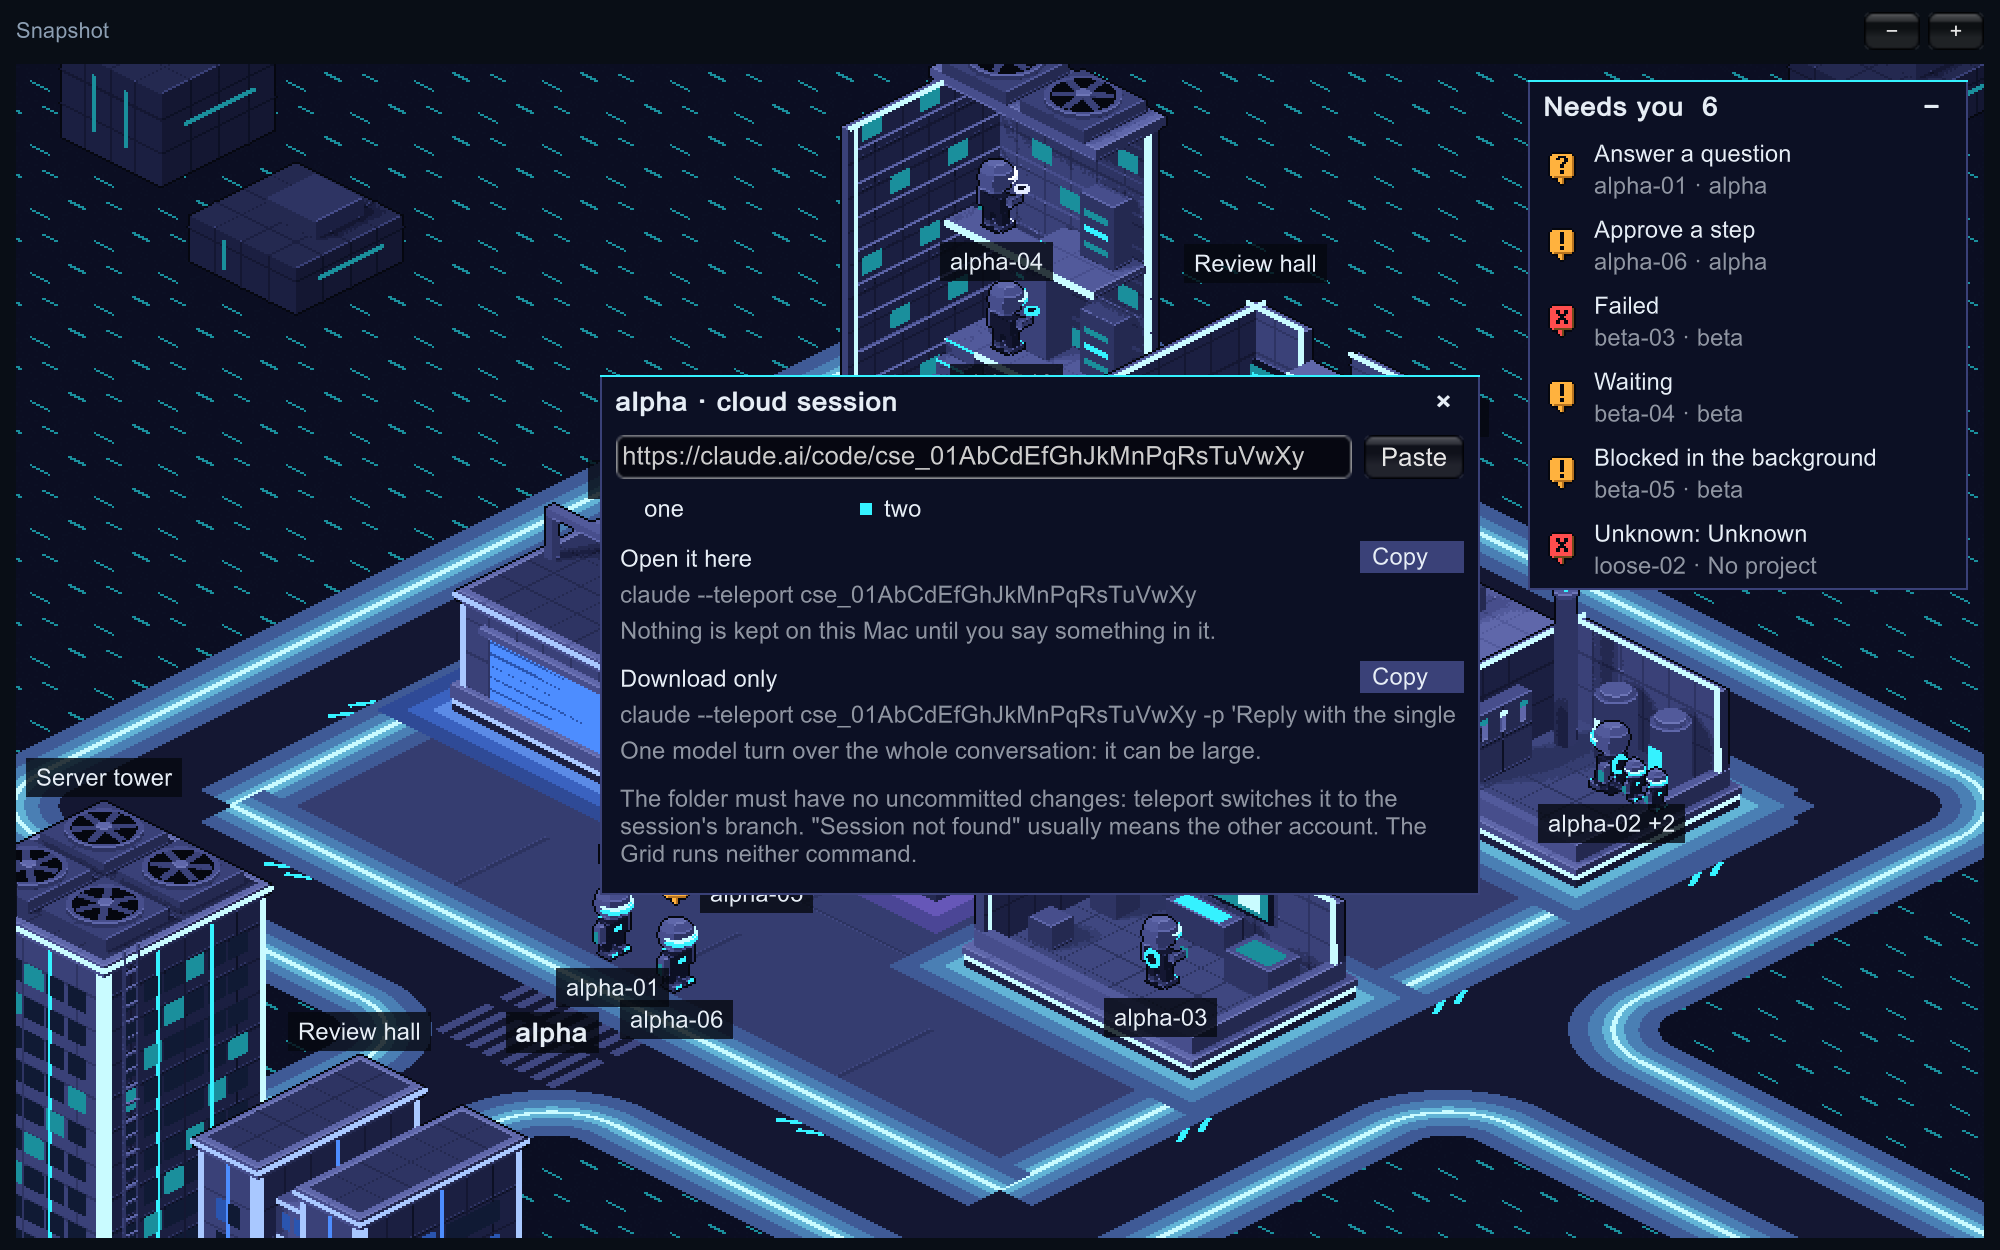
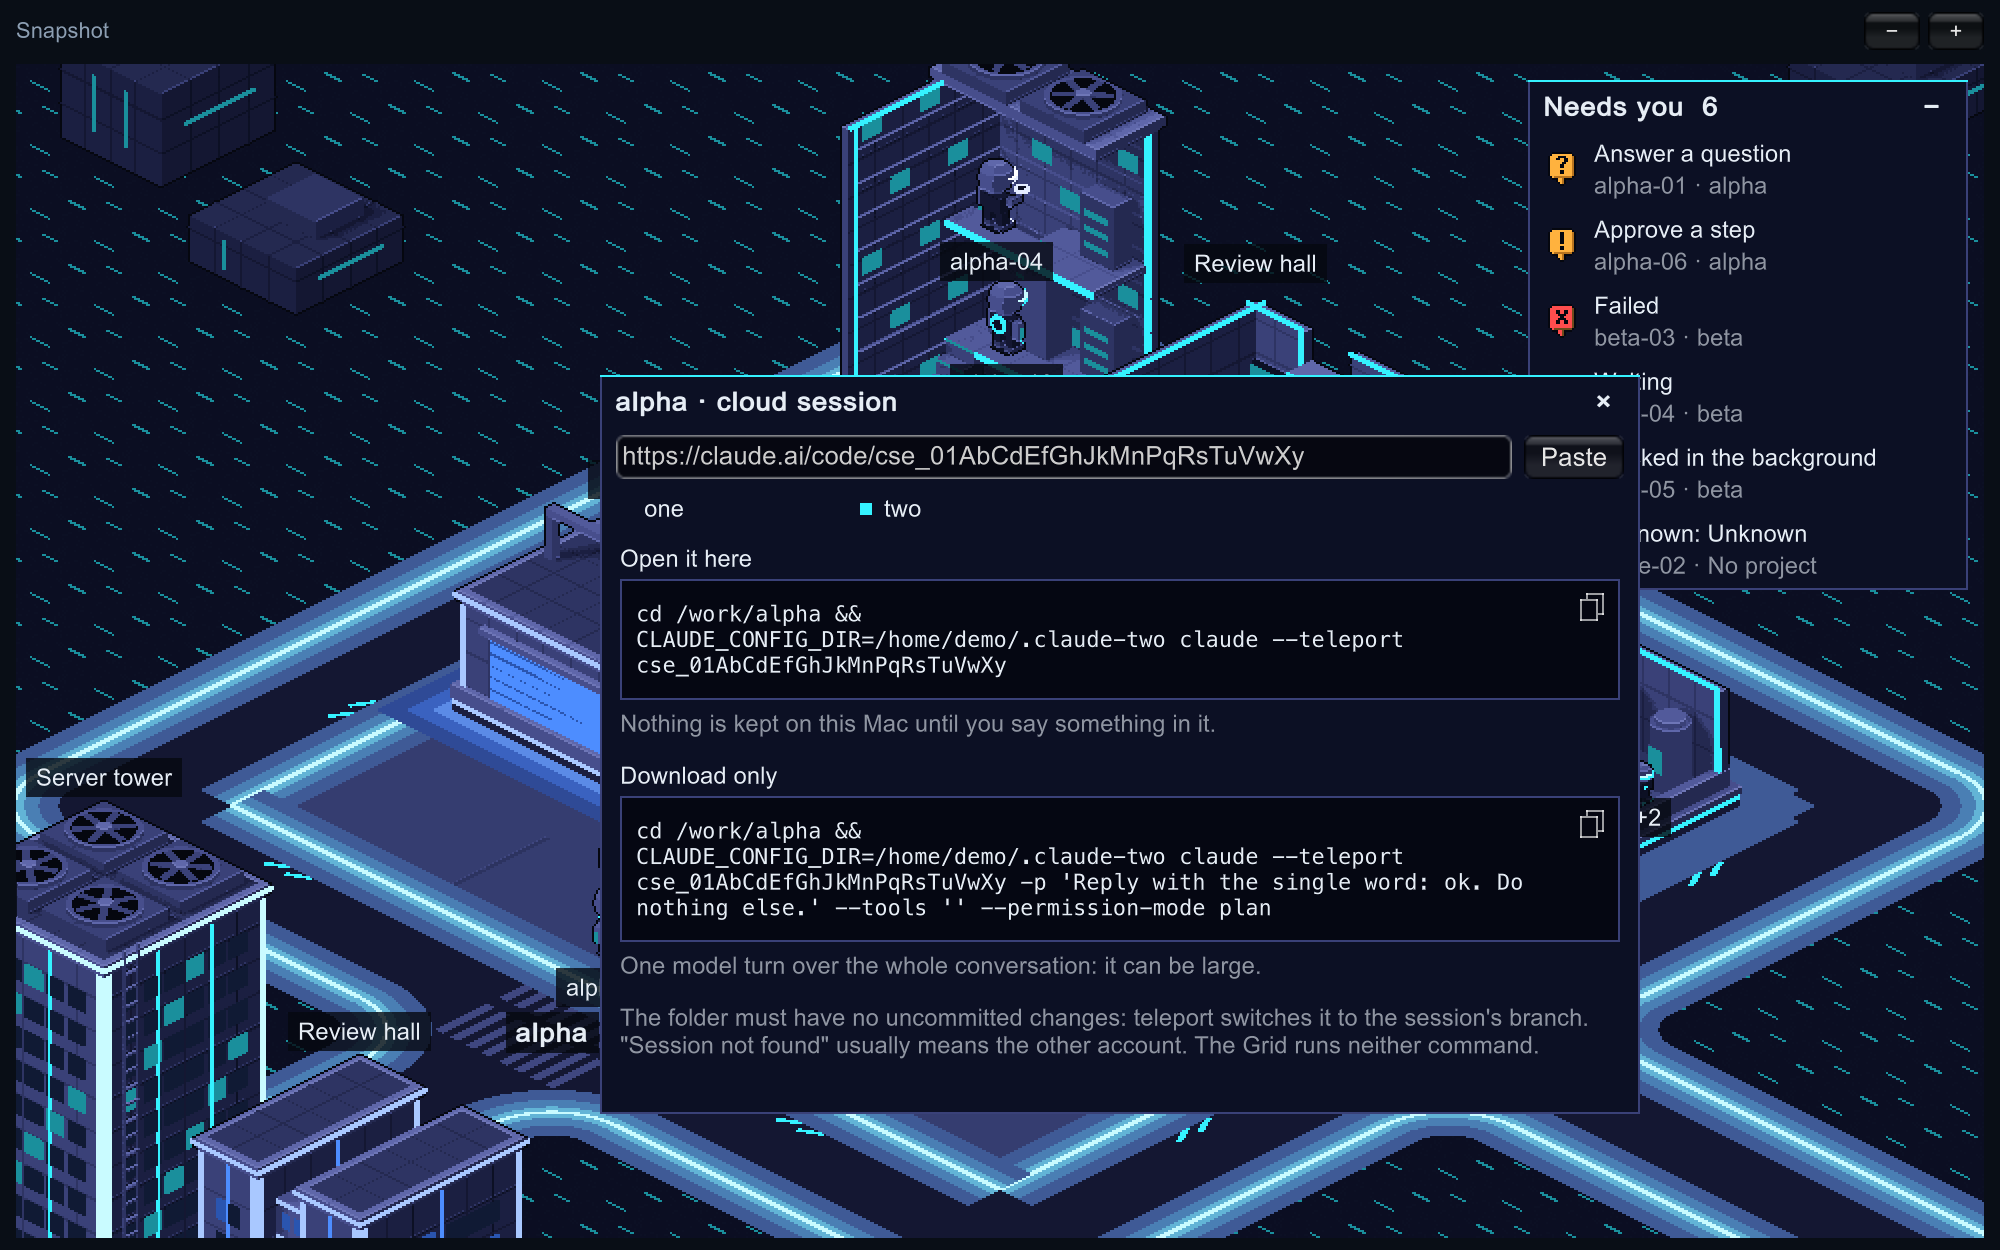
GRID-39: the cloud panel's commands are code blocks with a copy mark
Asked for by the owner on seeing the panel: the code to copy in a properly
formatted code block, with the copy control as an icon in the block's upper
right corner.

- Each command is drawn whole, in fixed-width letters on a darker plate,
  every step on a line of its own (RosterFormat.Shown), long lines wrapped.
- The copy control is a small mark of two sheets in the upper right corner;
  it is lit and says "Copied" for a moment after a click.
- No dependency: the letters are Menlo from the system, the block and the
  mark are a few filled rectangles.

diff --git a/Assets/TheGrid/WorldPanels.cs b/Assets/TheGrid/WorldPanels.cs
@@ -15,14 +15,14 @@ namespace TheGrid
         const int SubagentLines = 4, SubagentLinesWhenShort = 1;
         const int MostRows = 6, RowsWhenShort = 2, MostPulls = 5;
         static readonly Color Plate = new Color32(0x0c, 0x10, 0x24, 255), Edge = new Color32(0x3a, 0x41, 0x78, 255), Lit = new Color32(0x35, 0xf2, 0xff, 255);
-        static readonly Color Dim = new Color(1, 1, 1, .6f);
+        static readonly Color Dim = new Color(1, 1, 1, .6f), Well = new Color32(0x05, 0x07, 0x12, 255);   // Well: the ground of a code block
 
         readonly Texture2D[] badges = new Texture2D[5];   // in the order of Badge
         bool folded, foldChosen;
         Vector2 scroll;
         Rect needs, card, depot;   // where the panels are; zero when not drawn
         Vector2 depotScroll;
-        GUIStyle wrapped, oneLine;
+        GUIStyle wrapped, code;
         readonly Texture2D[] crates = new Texture2D[ArtNames.Crates.Length];   // in the order of PullState
         List<string> subagents = new List<string>();   // the card's lines about subagents, as many as this map has room for
 
@@ -294,7 +294,9 @@ namespace TheGrid
             if (wrapped == null) wrapped = new GUIStyle(text) { wordWrap = true, clipping = TextClipping.Clip };
             string id = RosterFormat.CloudId(pasted);
             bool wrong = id == "" && pasted.Trim() != "";
-            float high = TitleHigh + 30 + (wrong ? 36 : 0) + 26 + (id == "" ? 0 : 6 * LineHigh + 12) + 58;
+            string open = id == "" ? "" : command(id, cloudAccount, false), download = id == "" ? "" : command(id, cloudAccount, true);
+            float openHigh = CodeHigh(CloudWide - 20, open, text), downloadHigh = CodeHigh(CloudWide - 20, download, text);
+            float high = TitleHigh + 30 + (wrong ? 36 : 0) + 26 + (id == "" ? 0 : openHigh + downloadHigh + 4 * LineHigh + 24) + 58;
             var panel = new Rect(Mathf.Clamp(at.x, window.x, window.xMax - CloudWide), Mathf.Clamp(at.y, window.y, window.yMax - high), CloudWide, high);
             GUI.ModalWindow(0x636c6f75, panel, _ =>
             {
@@ -328,12 +330,14 @@ namespace TheGrid
                 y += 26;
                 if (id != "")
                 {
-                    y = Copied(all, y, "Open it here", "cloud-open", command(id, cloudAccount, false), text);
-                    Faint(new Rect(10, y, all.width - 20, 20), "Nothing is kept on this Mac until you say something in it.", text);
-                    y += LineHigh + 6;
-                    y = Copied(all, y, "Download only", "cloud-download", command(id, cloudAccount, true), text);
-                    Faint(new Rect(10, y, all.width - 20, 20), "One model turn over the whole conversation: it can be large.", text);
-                    y += LineHigh + 6;
+                    GUI.Label(new Rect(10, y, all.width - 20, 20), "Open it here", text);
+                    Code(new Rect(10, y + LineHigh + 2, all.width - 20, openHigh), "cloud-open", open, text);
+                    Faint(new Rect(10, y + LineHigh + 4 + openHigh, all.width - 20, 20), "Nothing is kept on this Mac until you say something in it.", text);
+                    y += openHigh + 2 * LineHigh + 12;
+                    GUI.Label(new Rect(10, y, all.width - 20, 20), "Download only", text);
+                    Code(new Rect(10, y + LineHigh + 2, all.width - 20, downloadHigh), "cloud-download", download, text);
+                    Faint(new Rect(10, y + LineHigh + 4 + downloadHigh, all.width - 20, 20), "One model turn over the whole conversation: it can be large.", text);
+                    y += downloadHigh + 2 * LineHigh + 12;
                 }
                 Faint(new Rect(10, y, all.width - 20, 54), "The folder must have no uncommitted changes: teleport switches it to the session's branch. \"Session not found\" usually means the other account. The Grid runs neither command.", wrapped);
                 if (!away) return;
@@ -342,23 +346,45 @@ namespace TheGrid
             }, GUIContent.none, GUIStyle.none);
         }
 
-        // One command of the cloud panel: what it is for, a Copy for the whole of it, and under them its end, as far as
-        // fits. Returns the next line.
-        float Copied(Rect all, float y, string name, string key, string command, GUIStyle text)
+        // The letters of a code block: fixed-width, from a font every Mac has, so the app brings none of its own.
+        GUIStyle CodeStyle(GUIStyle text)
         {
-            var copy = new Rect(all.width - 60, y + 1, 52, 16);
-            GUI.Label(new Rect(10, y, copy.x - 16, 20), name, text);
-            if (oneLine == null) oneLine = new GUIStyle(text) { wordWrap = false, clipping = TextClipping.Clip };
-            Faint(new Rect(10, y + LineHigh, all.width - 20, 20), command.Substring(Mathf.Max(0, command.LastIndexOf("claude --teleport", StringComparison.Ordinal))), oneLine);
-            Fill(copy, Edge);
-            GUI.Label(new Rect(copy.x + 6, copy.y - 2, copy.width - 8, 20), copiedKey == key && Time.unscaledTime < copiedUntil ? "Copied" : "Copy", text);
-            if (GUI.Button(copy, GUIContent.none, GUIStyle.none))
-            {
-                GUIUtility.systemCopyBuffer = command;
-                copiedKey = key;
-                copiedUntil = Time.unscaledTime + 1.5f;
-            }
-            return y + 2 * LineHigh;
+            if (code == null)
+                code = new GUIStyle(text) { font = Font.CreateDynamicFontFromOSFont(new[] { "Menlo", "Monaco", "Courier New" }, 11), fontSize = 11, wordWrap = true, clipping = TextClipping.Clip };
+            return code;
+        }
+
+        // How high a code block of that width is for that command: its lines, wrapped, clear of the mark in its corner.
+        float CodeHigh(float wide, string command, GUIStyle text) =>
+            command == "" ? 0 : CodeStyle(text).CalcHeight(new GUIContent(RosterFormat.Shown(command)), wide - 2 * CodePad - CopyRoom) + 2 * CodePad;
+
+        // A command as a code block: a darker plate, fixed-width letters, every step on a line of its own, and in its upper
+        // right corner the mark that copies the whole of it: two sheets, one over the other. For a moment after a click the
+        // mark is lit and says so.
+        void Code(Rect block, string key, string command, GUIStyle text)
+        {
+            Fill(block, Edge);
+            Fill(new Rect(block.x + 1, block.y + 1, block.width - 2, block.height - 2), Well);
+            GUI.Label(new Rect(block.x + CodePad, block.y + CodePad, block.width - 2 * CodePad - CopyRoom, block.height - 2 * CodePad), RosterFormat.Shown(command), CodeStyle(text));
+            bool copied = copiedKey == key && Time.unscaledTime < copiedUntil;
+            var mark = new Rect(block.xMax - 22, block.y + 6, 16, 16);
+            var ink = copied ? Lit : Dim;
+            Outline(new Rect(mark.x + 5, mark.y + 1, 9, 11), ink);                      // the sheet behind
+            Fill(new Rect(mark.x + 2, mark.y + 4, 9, 11), Well);                        // the one in front covers its corner
+            Outline(new Rect(mark.x + 2, mark.y + 4, 9, 11), ink);
+            if (copied) Faint(new Rect(mark.x - 52, mark.y - 1, 50, 18), "Copied", text);
+            if (!GUI.Button(new Rect(mark.x - 3, mark.y - 3, 22, 22), GUIContent.none, GUIStyle.none)) return;
+            GUIUtility.systemCopyBuffer = command;
+            copiedKey = key;
+            copiedUntil = Time.unscaledTime + 1.5f;
+        }
+
+        static void Outline(Rect r, Color c)
+        {
+            Fill(new Rect(r.x, r.y, r.width, 1), c);
+            Fill(new Rect(r.x, r.yMax - 1, r.width, 1), c);
+            Fill(new Rect(r.x, r.y, 1, r.height), c);
+            Fill(new Rect(r.xMax - 1, r.y, 1, r.height), c);
         }
 
         // How many lines of the card are about getting into the conversation.
@@ -367,7 +393,7 @@ namespace TheGrid
         string copiedKey = "";   // the bot whose command was last copied, and until when the card says so
         float copiedUntil;
 
-        const float ListWide = 236, ListRow = 24, CloudWide = 440;
+        const float ListWide = 236, ListRow = 24, CloudWide = 520, CodePad = 8, CopyRoom = 22;
         string typed = "";   // the name of a new workspace, as far as it has been typed
         string pasted = "";  // what the owner put in the cloud panel's box
         int cloudAccount;    // and the account chosen there

diff --git a/Assets/TheGrid/Tests/RosterFormatTests.cs b/Assets/TheGrid/Tests/RosterFormatTests.cs
@@ -81,6 +81,12 @@ namespace TheGrid.Core.Tests
         [Test]
         public void NoCloudSessionNoCommand() => Assert.AreEqual("", RosterFormat.Teleport("", "/work/alpha", "/home/me/.claude", "/home/me", false, false));
 
+        // In a code block every step of a command has a line of its own; what is copied stays the one line.
+        [TestCase("cd /work/alpha && claude --teleport cse_01", "cd /work/alpha &&\nclaude --teleport cse_01")]
+        [TestCase("claude --teleport cse_01", "claude --teleport cse_01")]
+        [TestCase("", "")]
+        public void ACommandAsItIsShown(string command, string expected) => Assert.AreEqual(expected, RosterFormat.Shown(command));
+
         // An account's folder from its name, for a snapshot, which has names only: the reverse of AccountLabel.
         [TestCase("claude", "/home/demo/.claude")]
         [TestCase("two", "/home/demo/.claude-two")]

diff --git a/Assets/TheGrid/Core/Roster.cs b/Assets/TheGrid/Core/Roster.cs
@@ -82,6 +82,9 @@ namespace TheGrid.Core
                 + (download ? " -p " + Word("Reply with the single word: ok. Do nothing else.") + " --tools '' --permission-mode plan" : "");
         }
 
+        // A command as a code block shows it: every step on a line of its own. A shell reads it the same either way.
+        public static string Shown(string command) => (command ?? "").Replace(" && ", " &&\n");
+
         static string Word(string s)
         {
             foreach (char c in s)

diff --git a/README.md b/README.md
@@ -144,12 +144,12 @@ A lane runs round every sector, and roads cross the open ground so that every se
 
 ![The list of workspaces, opened from a sector's name](docs/art/world-workspace.png)
 
-**A cloud session** is not on the map: The Grid sees the sessions on this Mac, and there is no list of the ones that run in the cloud. To bring one here, pick the last line of that list, **Bring a cloud session here**. A panel opens for that repo. Paste what names the session: its id (`cse_…` or `session_…`), the line the cloud session prints when you type `/teleport` in it, or its `claude.ai/code` link (**Paste** takes it from the clipboard). Pick the account that owns the session; the one whose session in this repo changed last is picked for you. The panel then has two commands, each with a **Copy**:
+**A cloud session** is not on the map: The Grid sees the sessions on this Mac, and there is no list of the ones that run in the cloud. To bring one here, pick the last line of that list, **Bring a cloud session here**. A panel opens for that repo. Paste what names the session: its id (`cse_…` or `session_…`), the line the cloud session prints when you type `/teleport` in it, or its `claude.ai/code` link (**Paste** takes it from the clipboard). Pick the account that owns the session; the one whose session in this repo changed last is picked for you. The panel then has two commands, each in a code block with the whole of it in fixed-width letters, every step on a line of its own. The mark in a block's upper right corner, two sheets, copies the command:
 
 - **Open it here** is `claude --teleport <id>`, after a `cd` to the repo's folder and with the account named as on a bot's card. It opens the conversation in your terminal. Nothing is kept on this Mac until you say something in it; from then on it is a session like any other, with a bot.
 - **Download only** adds one short question that is asked with no terminal and no tools (`-p … --tools '' --permission-mode plan`). That writes the whole conversation to this Mac. It is one model turn over the whole conversation, which for a long session is large: the one it was tried on read over 900,000 tokens.
 
-Either way the folder must have no uncommitted changes, and teleport switches it to the session's branch. If the answer is `Session not found`, try the other account. The Grid runs neither command and asks nothing of the cloud: it only writes the command. Ordinary claude.ai chats cannot be brought over this way.
+Either way the folder must have no uncommitted changes, and teleport switches it to the session's branch. If the answer is `Session not found`, try the other account. The letters are Menlo, which every Mac has; the app brings no font and no library for this. The Grid runs neither command and asks nothing of the cloud: it only writes the command. Ordinary claude.ai chats cannot be brought over this way.
 
 ![The panel that makes the command for a cloud session](docs/art/world-cloud.png)
 
